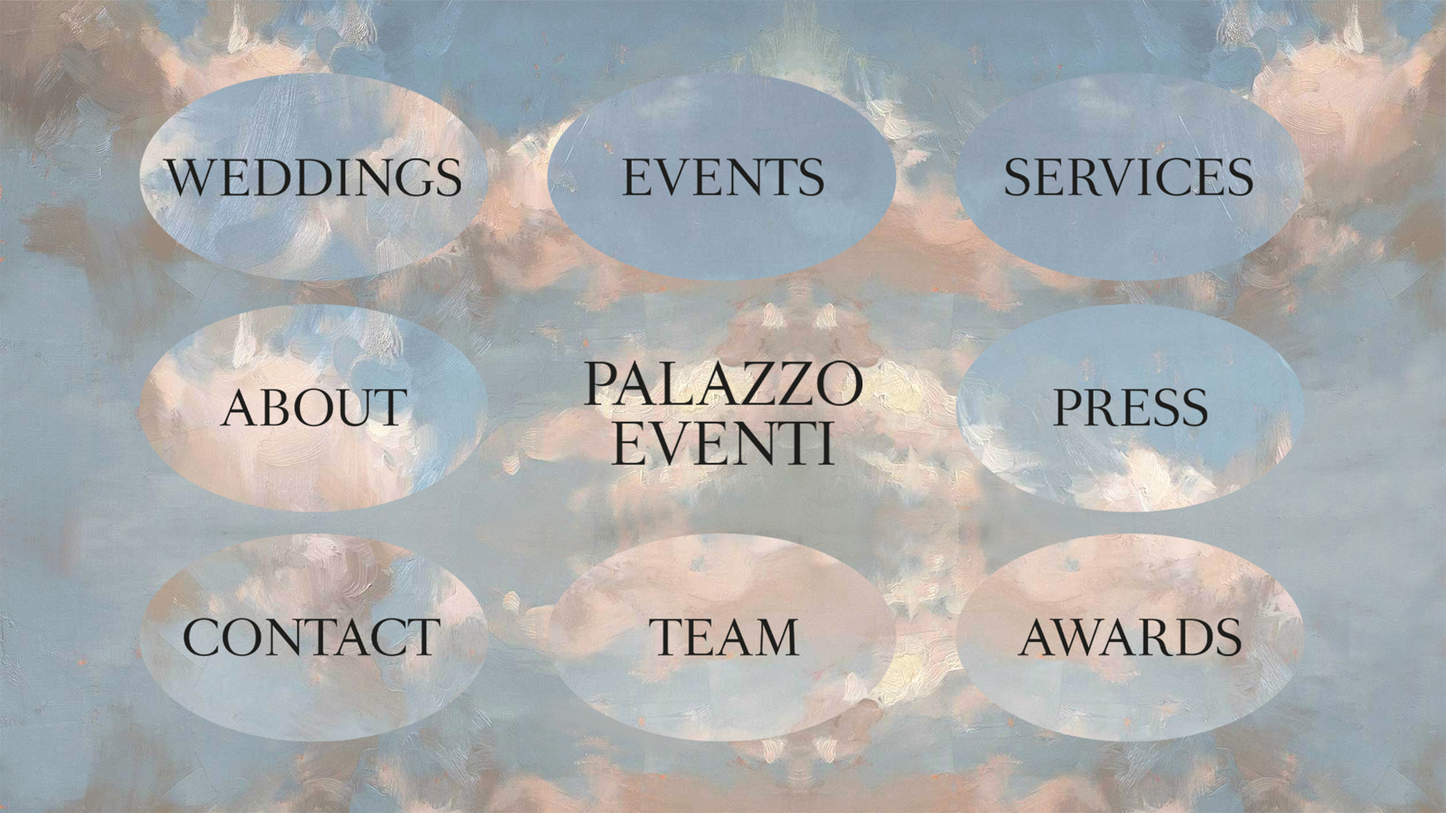
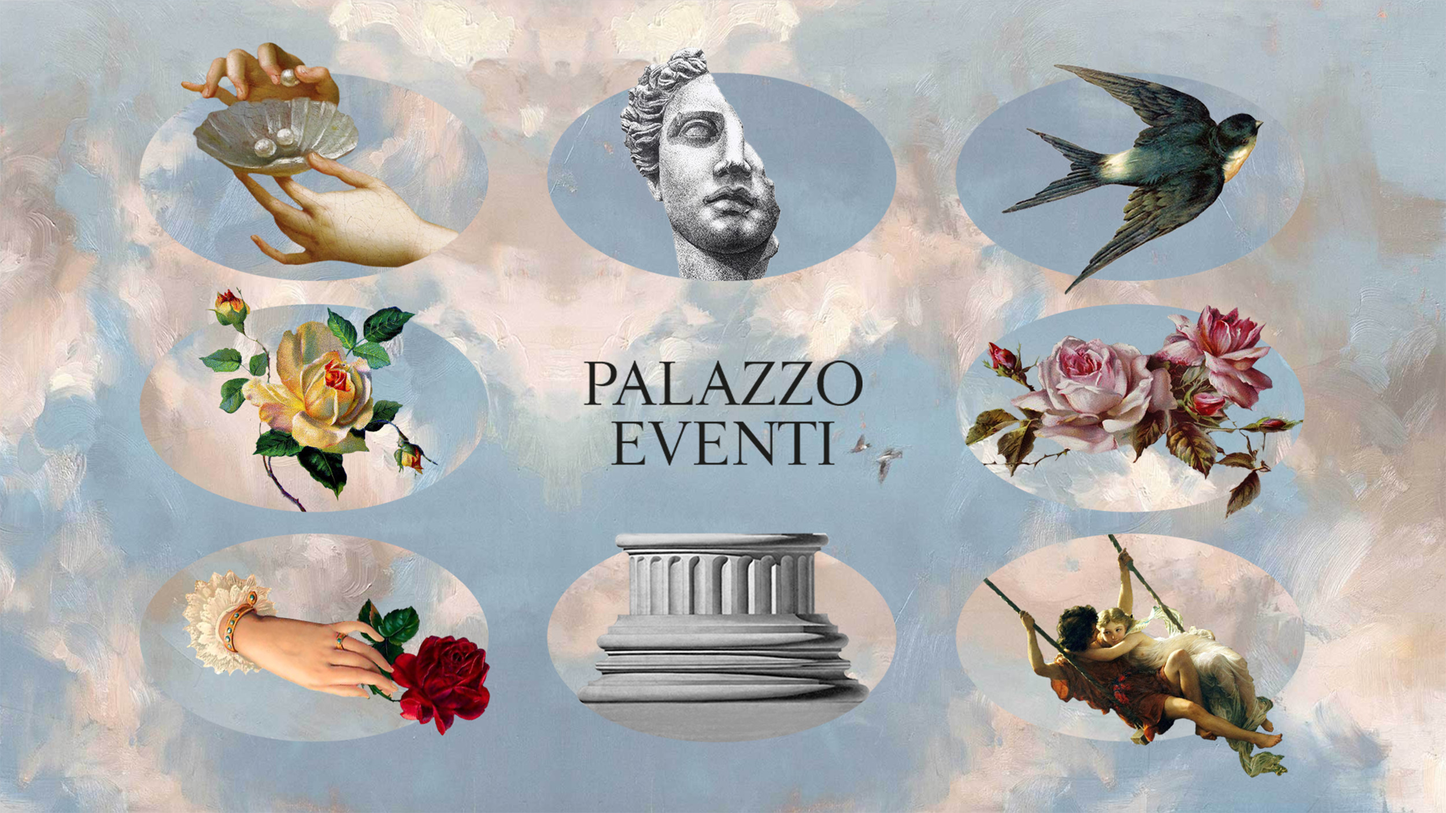
menu update

diff --git a/palazzofe/components/layout/Header.vue b/palazzofe/components/layout/Header.vue
@@ -112,8 +112,8 @@ export default {
     return {
       isMenuOpen: false,
       isHovered: false,
-      defaultImage: "/newnav.jpg",
-      hoverImage: "/newnavt.jpg",
+      defaultImage: "/newnavt.jpg",
+      hoverImage: "/newnav.jpg",
       menuTopPosition: "0",
       lottieInstance: null,
     };
